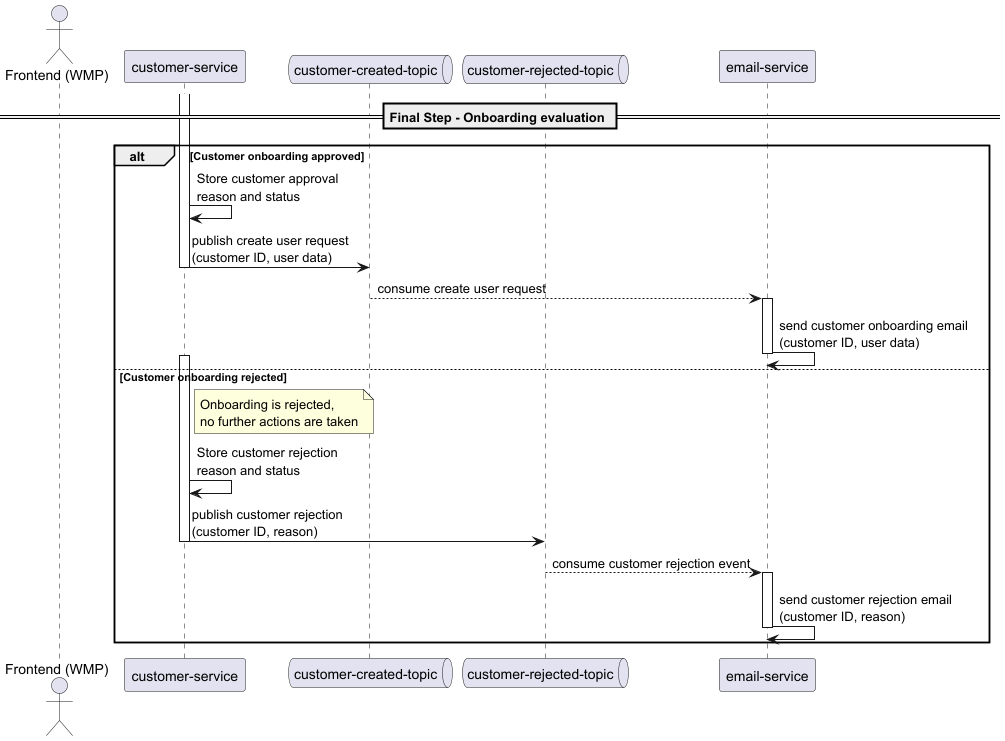
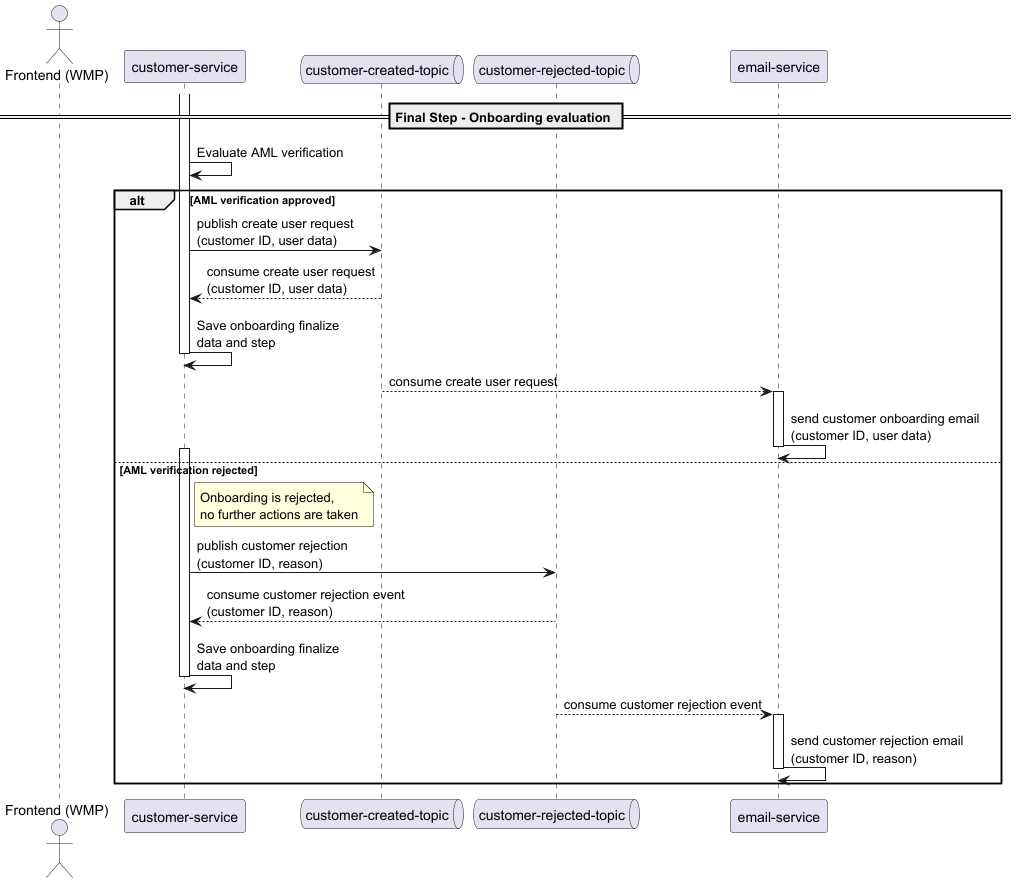
Enhance onboarding evaluation process: update customer onboarding flow to include AML verification steps, publish events for customer creation and rejection, and adjust related email notifications.

diff --git a/business-modules/customer-service/customer-core/src/main/java/raff/stein/customer/service/aml/AmlService.java b/business-modules/customer-service/customer-core/src/main/java/raff/stein/customer/service/aml/AmlService.java
@@ -42,6 +42,7 @@ public class AmlService {
     private static final AmlVerificationToAmlVerificationEntityMapper amlVerificationMapper = AmlVerificationToAmlVerificationEntityMapper.MAPPER;
     private static final CustomerToCustomerEntityMapper customerMapper = CustomerToCustomerEntityMapper.MAPPER;
 
+    //TODO: add API for AML retrigger
     public void triggerAmlCheck(@NonNull UUID customerId) {
         final CustomerEntity customerEntity = customerRepository.findById(customerId)
                 .orElseThrow(() -> new IllegalArgumentException("Customer with ID " + customerId + " not found"));

diff --git a/business-modules/customer-service/customer-core/src/main/java/raff/stein/customer/service/onboarding/handler/impl/FinalizeStepHandler.java b/business-modules/customer-service/customer-core/src/main/java/raff/stein/customer/service/onboarding/handler/impl/FinalizeStepHandler.java
@@ -11,6 +11,7 @@ import raff.stein.customer.service.onboarding.handler.OnboardingStepContext;
 @RequiredArgsConstructor
 @Slf4j
 public class FinalizeStepHandler extends BaseOnboardingStepHandler {
+    //TODO
 
     @Override
     public String buildStepReason(OnboardingStepContext context) {

diff --git a/docs/domain/assets/onboarding/customer-onboarding/evaluation/customer-onboarding-evaluation.md b/docs/domain/assets/onboarding/customer-onboarding/evaluation/customer-onboarding-evaluation.md
@@ -6,20 +6,23 @@ queue "customer-rejected-topic" as customerRejectedTopic
 participant "email-service" as Email
 
 == Final Step - Onboarding evaluation ==
-alt Customer onboarding approved
 activate Customer
-Customer -> Customer: Store customer approval\nreason and status
+Customer -> Customer: Evaluate AML verification
+alt AML verification approved
 Customer -> customerCreatedTopic: publish create user request\n(customer ID, user data)
+customerCreatedTopic --> Customer: consume create user request\n(customer ID, user data)
+Customer -> Customer:Save onboarding finalize\ndata and step
 deactivate Customer
 customerCreatedTopic --> Email: consume create user request
 activate Email
 Email -> Email: send customer onboarding email\n(customer ID, user data)
 deactivate Email
-else Customer onboarding rejected
+else AML verification rejected
 note right of Customer: Onboarding is rejected,\nno further actions are taken
 activate Customer
-Customer -> Customer: Store customer rejection\nreason and status
 Customer -> customerRejectedTopic: publish customer rejection\n(customer ID, reason)
+customerRejectedTopic --> Customer: consume customer rejection event\n(customer ID, reason)
+Customer -> Customer: Save onboarding finalize\ndata and step
 deactivate Customer
 customerRejectedTopic --> Email: consume customer rejection event
 activate Email
